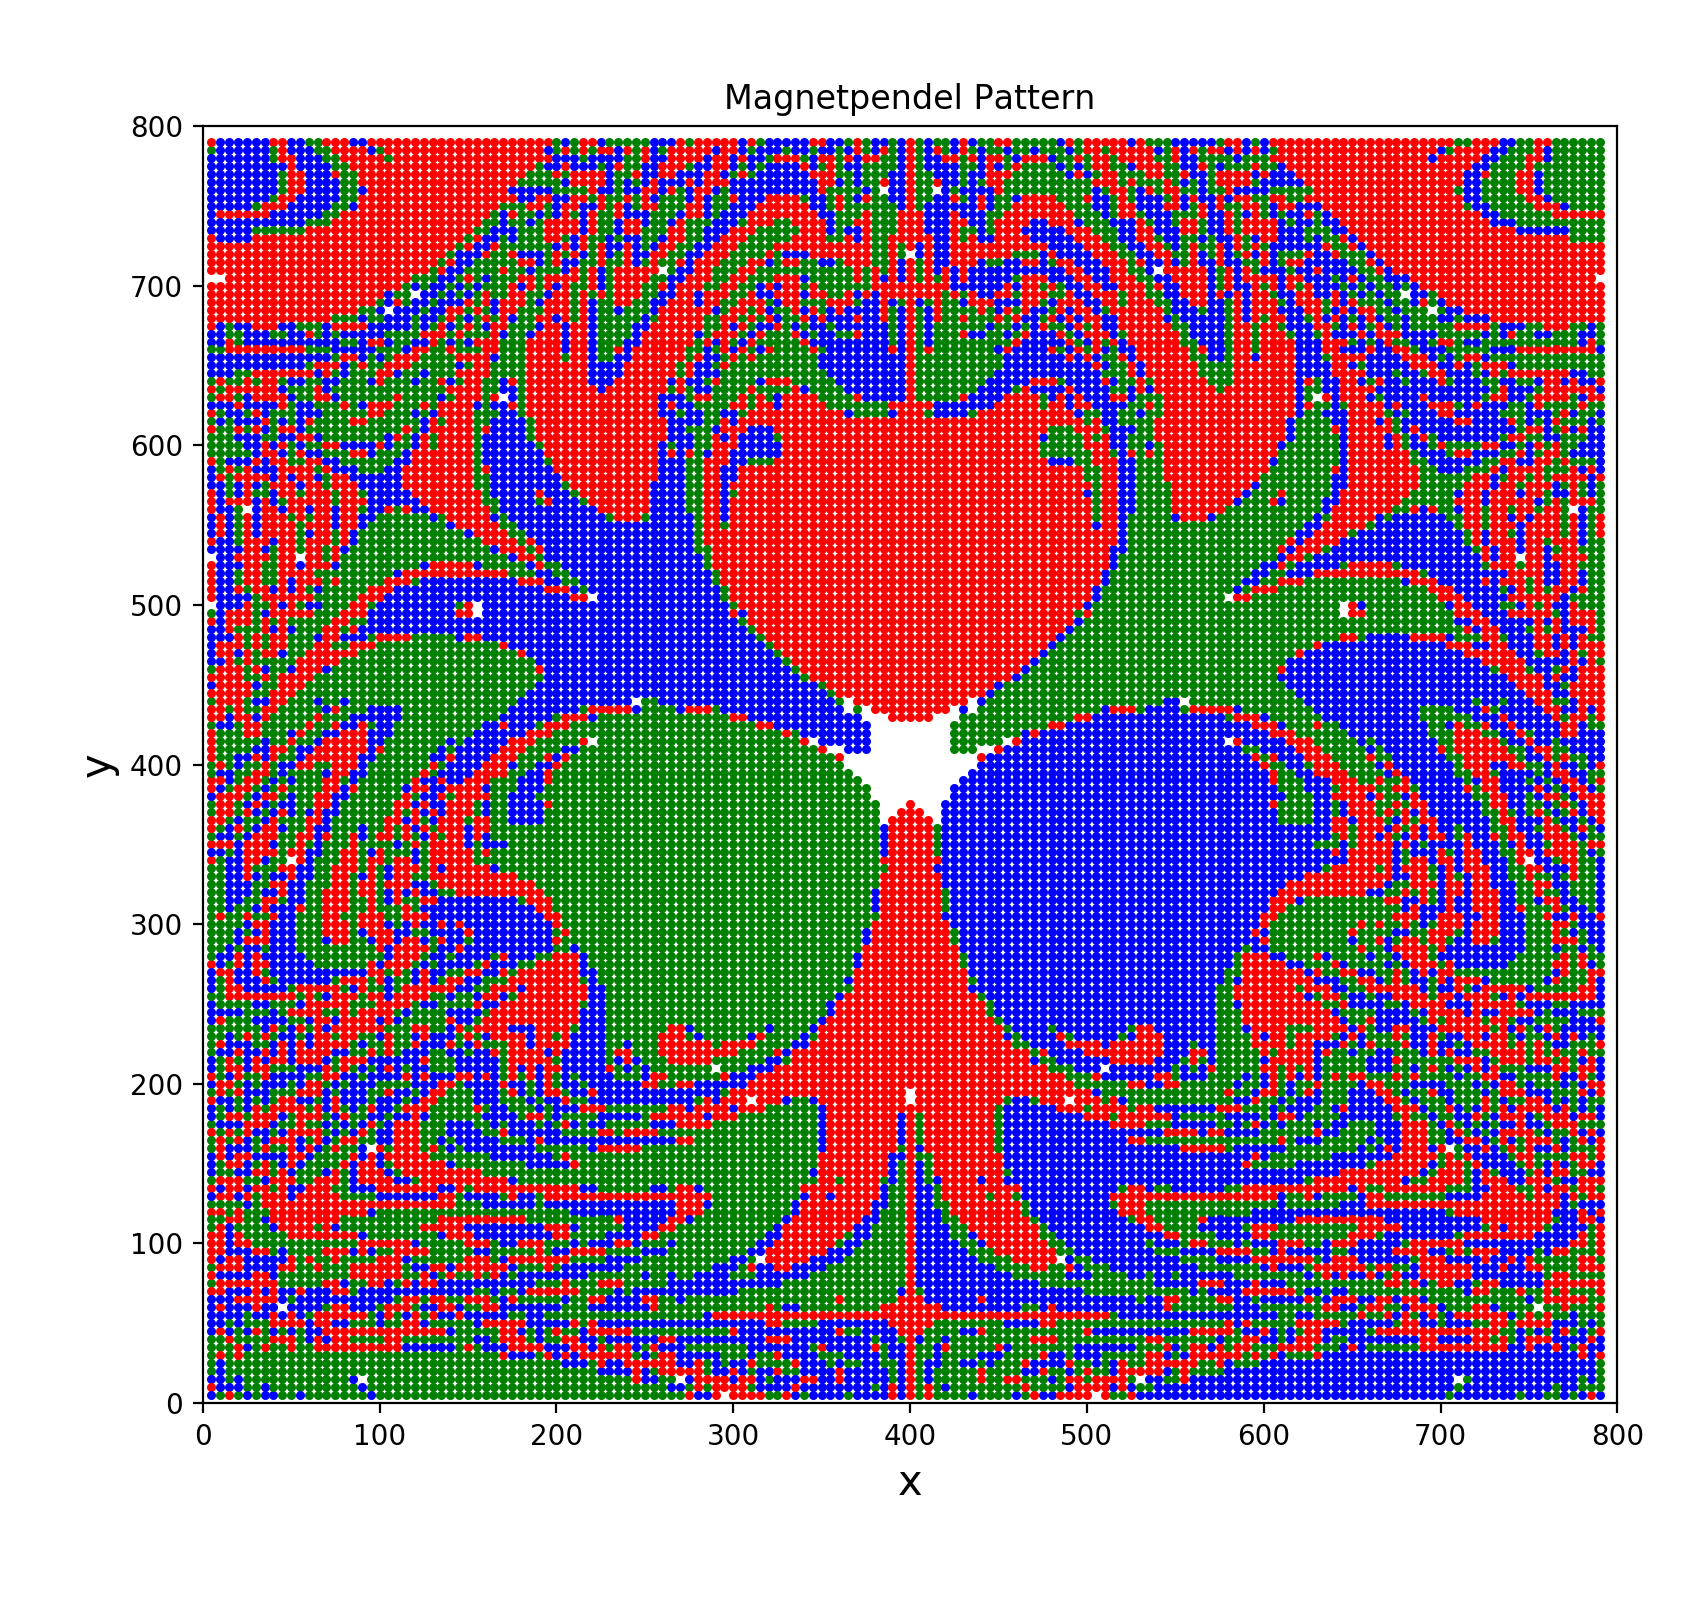
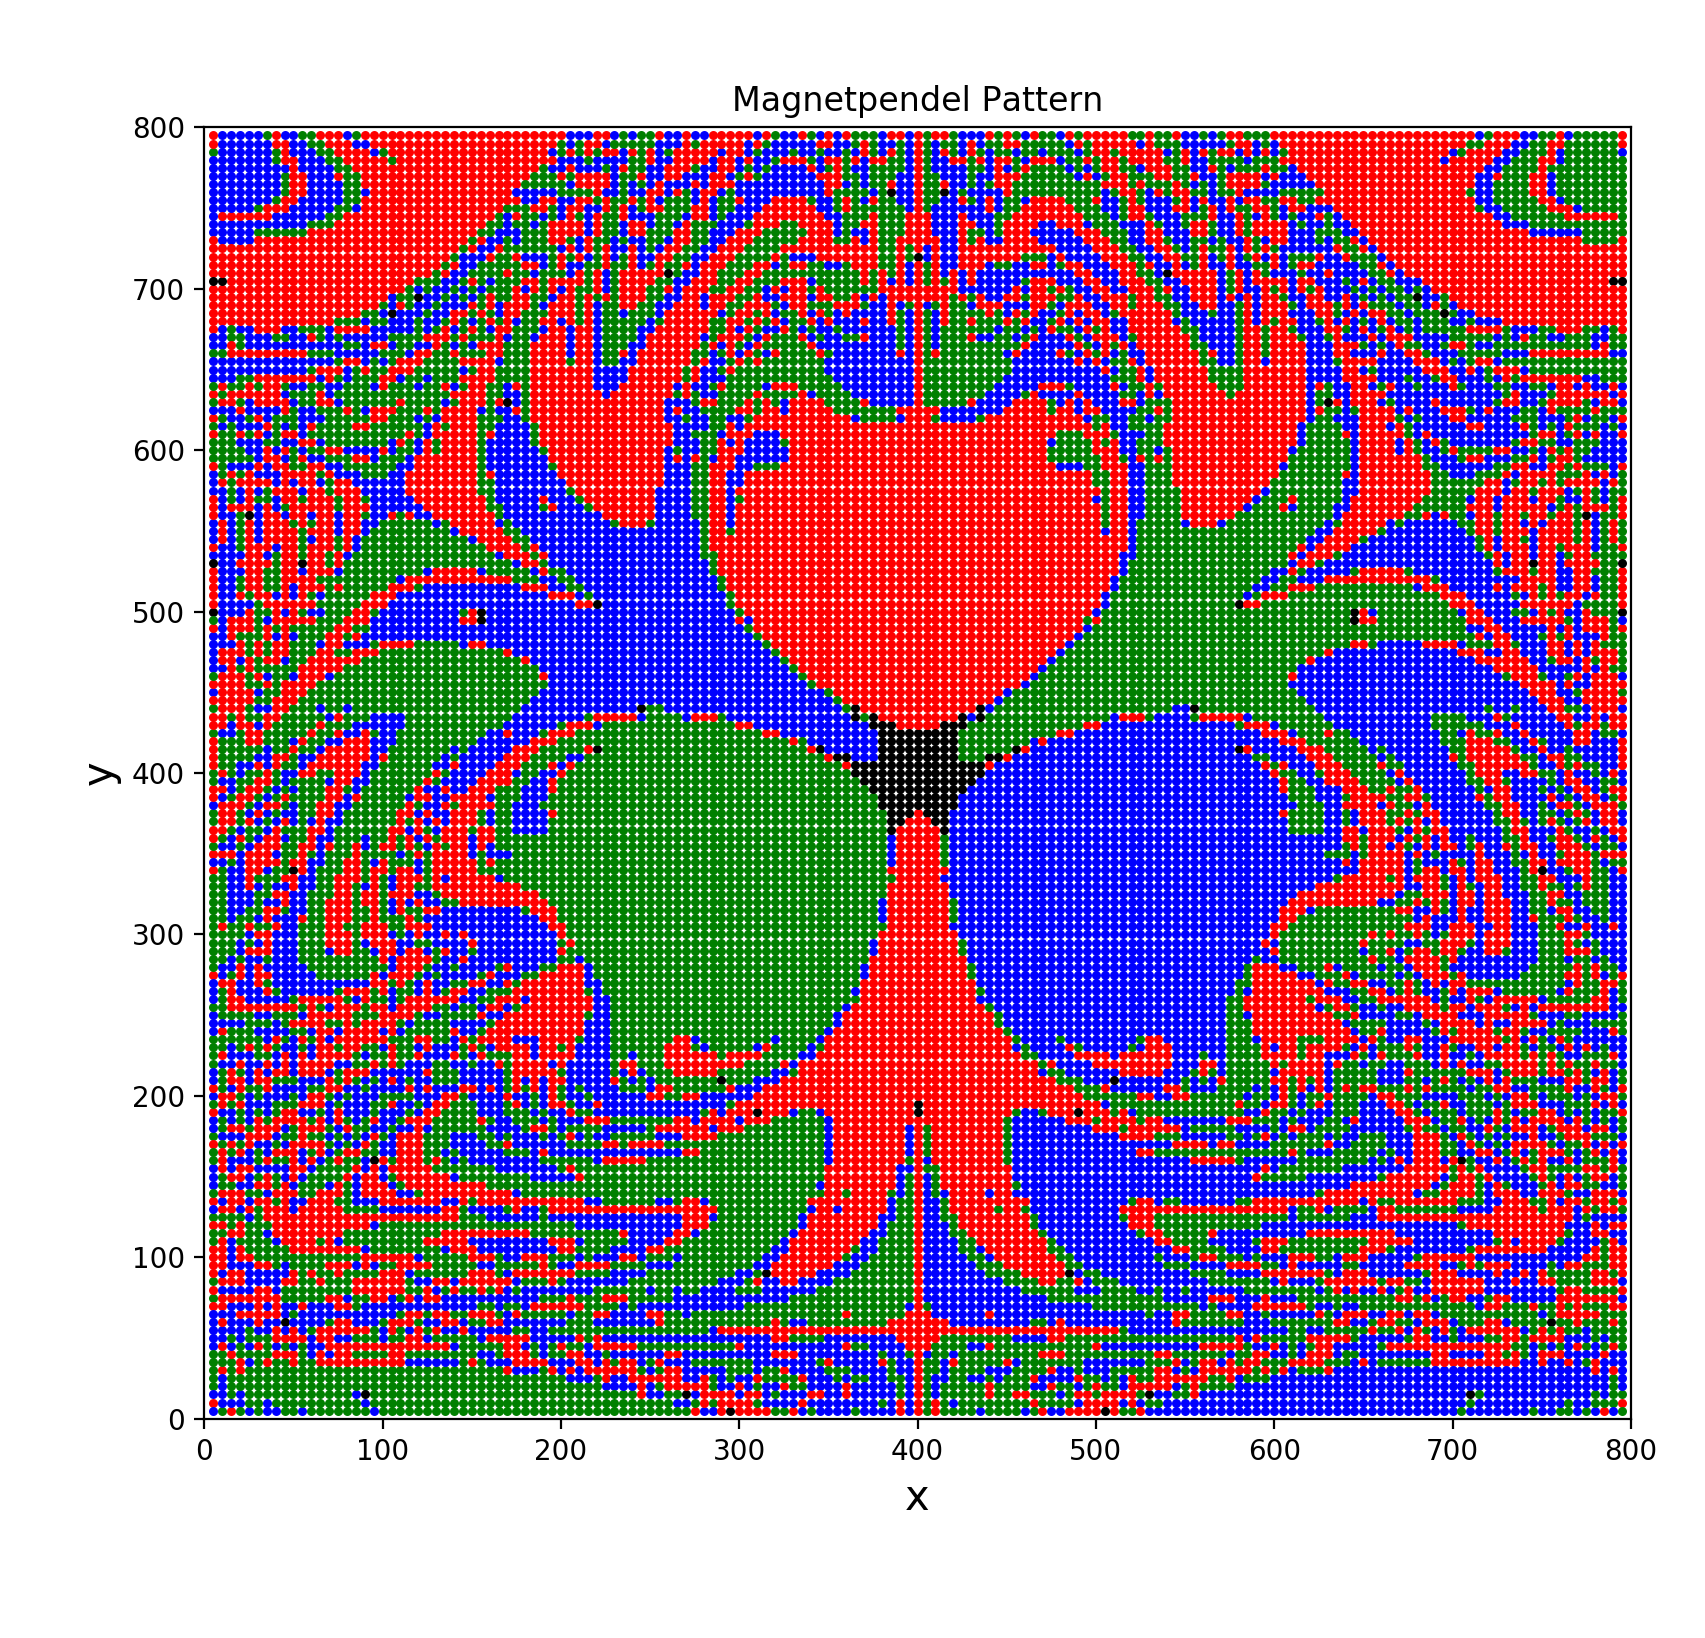
more

Changed region(s): [[0.0615, 0.0309, 0.9835, 0.8951], [0.0922, 0.8642, 0.1229, 0.8951]]

diff --git a/magnetpendel_sim_2d/pattern.py b/magnetpendel_sim_2d/pattern.py
@@ -85,11 +85,11 @@ if __name__ == '__main__':
 
     cfg = TriangleConfig()
 
-    worker_count = 10
-
+    #worker_count = 10
     #point_size = 5
     #point_delta = 5
 
+    worker_count = 1
     point_size = 15
     point_delta = 40
 
@@ -97,8 +97,8 @@ if __name__ == '__main__':
 
     points = []
 
-    for x in range(point_size, cfg.m_fSimWidth-point_size, point_delta):
-        for y in range(point_size, cfg.m_fSimHeight-point_size, point_delta):
+    for x in range(point_size, cfg.m_fSimWidth-(point_size-1), point_delta):
+        for y in range(point_size, cfg.m_fSimHeight-(point_size-1), point_delta):
             points.append(Point(x, y))
 
     point_queue = Queue()
